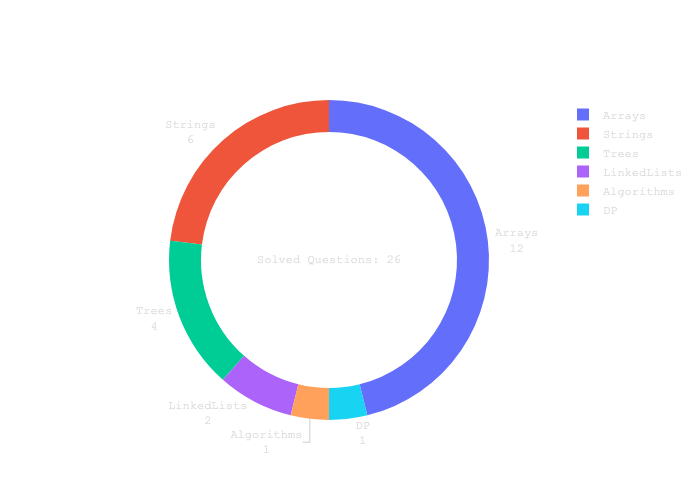
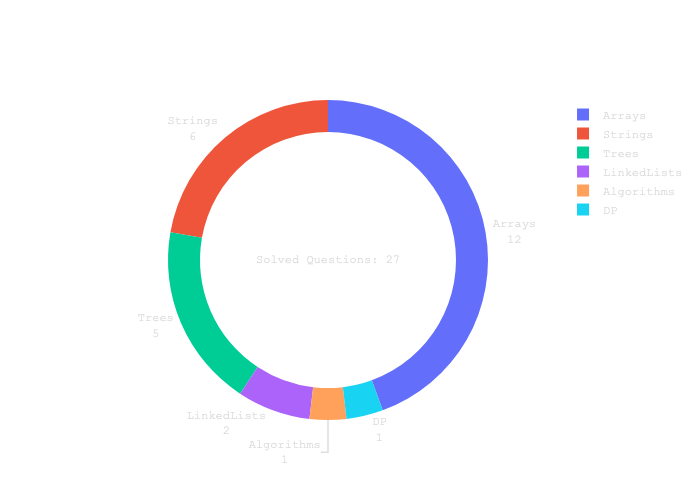
LCA of BT

diff --git a/Trees/lowestCommonAncestor.py b/Trees/lowestCommonAncestor.py
@@ -1,0 +1,16 @@
+from typing import Optional
+from utils.TreeNode import TreeNode
+
+
+def lowestCommonAncestor(
+    root: Optional[TreeNode], p: TreeNode, q: TreeNode
+) -> Optional[TreeNode]:
+    if not root or root == p or root == q:
+        return root
+
+    l = lowestCommonAncestor(root.left, p, q)
+    r = lowestCommonAncestor(root.right, p, q)
+
+    if l and r:
+        return root
+    return l or r
